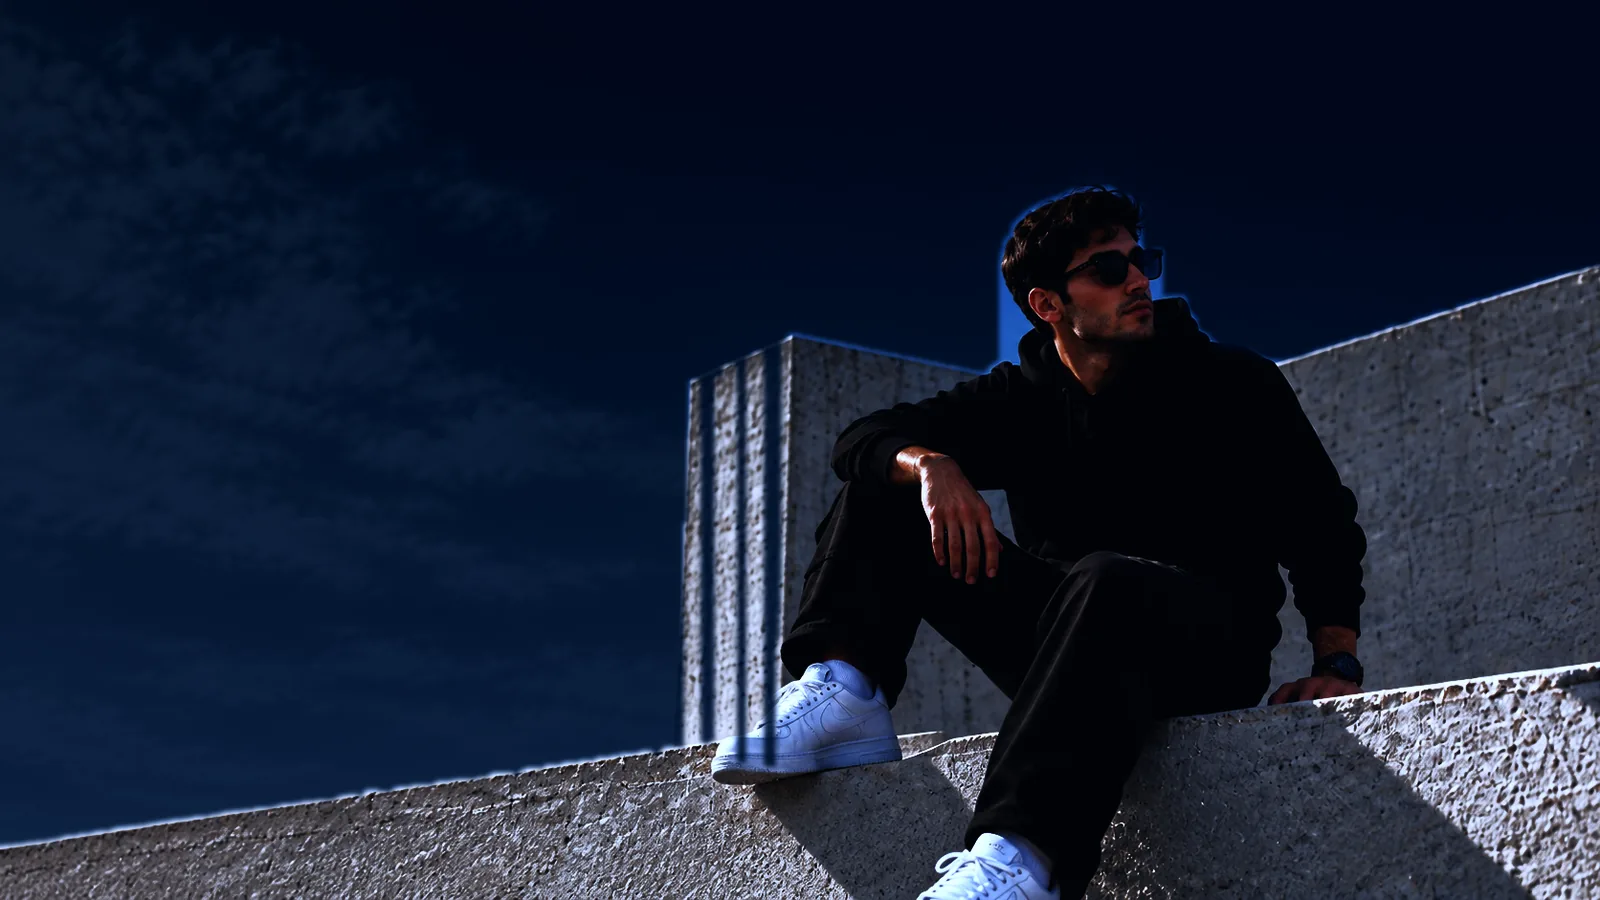
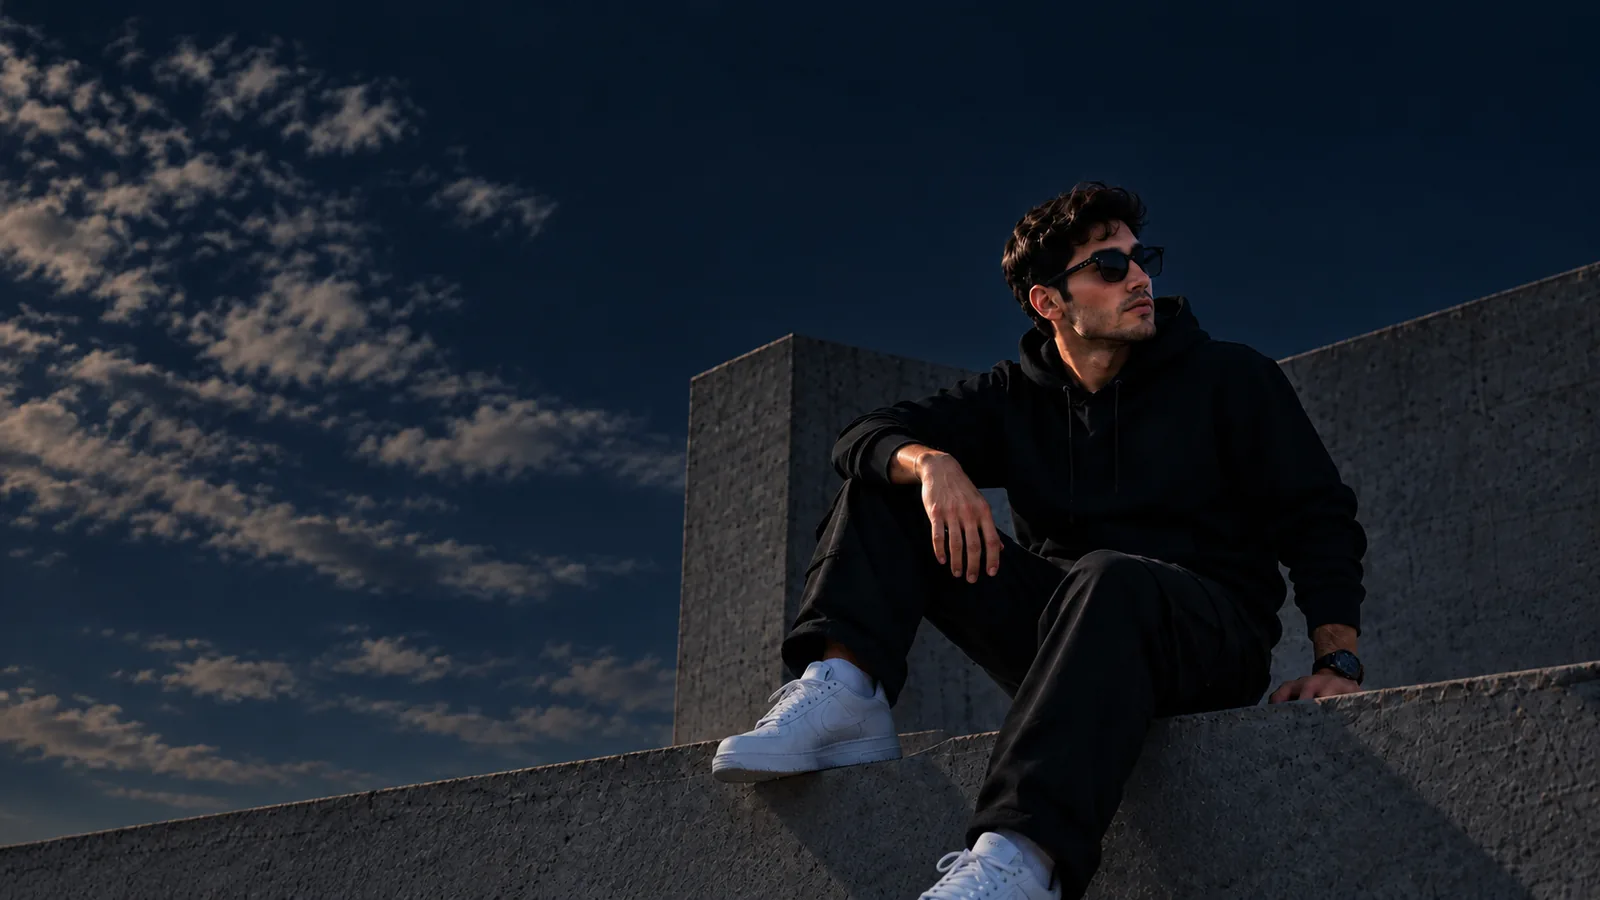
new

diff --git a/static/css/site.css b/static/css/site.css
@@ -199,6 +199,7 @@ html[dir="rtl"] .announce-track { animation-name: marquee-rtl; }
 }
 
 .nav { display: flex; align-items: center; gap: 2px; margin-inline: auto; }
+.logo { margin-inline-end: 8px; }
 .nav a {
   position: relative; padding: 9px 13px; border-radius: 8px;
   font-family: 'Jost', 'Cairo', sans-serif;
@@ -214,7 +215,7 @@ html[dir="rtl"] .announce-track { animation-name: marquee-rtl; }
 .nav a:hover, .nav a.is-active { color: var(--text); }
 .nav a:hover::after, .nav a.is-active::after { transform: scaleX(1); }
 
-.header-actions { display: flex; align-items: center; gap: 2px; flex: none; }
+.header-actions { display: flex; align-items: center; gap: 2px; flex: none; margin-inline-start: auto; }
 
 .cart-btn { position: relative; }
 .cart-count {
@@ -228,19 +229,19 @@ html[dir="rtl"] .announce-track { animation-name: marquee-rtl; }
 
 
 .burger { display: none; }
+.header-actions .burger { margin-inline-start: 2px; }
 
-/* search overlay */
-.search-bar {
-  border-top: 1px solid var(--line-soft);
-  max-height: 0; overflow: hidden; transition: max-height .32s var(--ease);
+/* search lives in the drawer */
+.drawer-search {
+  display: flex; align-items: center; gap: 10px;
+  padding: 11px 14px; margin-bottom: 14px;
+  border: 1px solid var(--line); border-radius: 100px; background: var(--surface-2);
 }
-.search-bar.is-open { max-height: 110px; }
-.search-bar form { display: flex; gap: 10px; padding: 16px 0; }
-.search-bar input {
-  flex: 1; padding: 12px 18px; border-radius: 100px;
-  background: var(--surface-2); border: 1px solid var(--line); color: var(--text);
+.drawer-search svg { width: 17px; height: 17px; flex: none; color: var(--muted); }
+.drawer-search input {
+  flex: 1; min-width: 0; border: 0; background: none; font-size: 14px; color: var(--text);
 }
-.search-bar input:focus { outline: none; border-color: var(--accent); }
+.drawer-search input:focus { outline: none; }
 
 /* mobile drawer */
 .drawer {
@@ -379,20 +380,6 @@ html[dir="rtl"] .drawer-panel { transform: translateX(102%); }
   box-shadow: 0 14px 42px color-mix(in srgb, var(--accent) 48%, transparent);
 }
 
-.hero-trust {
-  display: flex; align-items: center; flex-wrap: wrap;
-  gap: 0; margin-top: 44px;
-}
-.hero-trust li {
-  display: flex; align-items: center; gap: 10px;
-  padding-inline: 22px;
-  font-size: 13.5px; font-weight: 600; color: var(--text-2);
-  border-inline-start: 1px solid color-mix(in srgb, var(--text) 16%, transparent);
-}
-.hero-trust li:first-child { padding-inline-start: 0; border-inline-start: 0; }
-.hero-trust svg { width: 22px; height: 22px; flex: none; color: var(--ink); }
-:root[data-theme="dark"] .hero-trust svg { color: var(--accent); }
-
 .hero-script {
   position: absolute; z-index: 2;
   inset-inline-end: clamp(24px, 4vw, 70px);
@@ -412,23 +399,61 @@ html[dir="rtl"] .drawer-panel { transform: translateX(102%); }
 @media (max-width: 1180px) {
   .hero-script { display: none; }
 }
-@media (max-width: 820px) {
-  .hero-main { min-height: auto; padding-block: 0; }
-  .hero-media img { object-position: 62% top; }
+/* Narrower than the wide layout, `cover` would crop the sky away and push the
+   model under the copy. Locking the hero to the photo's own aspect ratio keeps
+   the whole frame on screen: clouds on the left for the copy, model on the right. */
+@media (max-width: 1024px) {
+  .hero-main {
+    min-height: 0;
+    aspect-ratio: 16 / 9;
+  }
+  .hero-media img { object-position: center; }
   .hero-media::after {
-    background: linear-gradient(180deg,
-      rgba(255,255,255,.97) 0%, rgba(255,255,255,.9) 42%, rgba(255,255,255,.62) 100%);
+    background: linear-gradient(90deg,
+      #FFFFFF 0%,
+      rgba(255,255,255,.90) 20%,
+      rgba(255,255,255,.60) 34%,
+      rgba(255,255,255,.12) 46%,
+      rgba(255,255,255,0) 56%);
   }
   :root[data-theme="dark"] .hero-media::after {
-    background: linear-gradient(180deg,
-      rgba(7,8,12,.96) 0%, rgba(7,8,12,.9) 42%, rgba(7,8,12,.66) 100%);
+    background: linear-gradient(90deg,
+      #07080C 0%,
+      rgba(7,8,12,.90) 20%,
+      rgba(7,8,12,.62) 34%,
+      rgba(7,8,12,.16) 46%,
+      rgba(7,8,12,0) 56%);
   }
-  .hero-wrap { padding-block: 54px 280px; }
-  .hero-copy { max-width: none; }
-  /* dividers can't survive wrapping without orphan borders — use gaps instead */
-  .hero-trust { margin-top: 28px; gap: 12px 22px; }
-  .hero-trust li { padding-inline: 0; border-inline-start: 0; font-size: 12.5px; }
-  .hero-trust svg { width: 19px; height: 19px; }
+  .hero-wrap { padding: 20px 18px; }
+  .hero-copy { max-width: 46%; }
+  .hero-eyebrow { font-size: clamp(9px, 1.5vw, 12px); letter-spacing: .3em; margin-bottom: 8px; }
+  .hero-title .line-1 { font-size: clamp(22px, 5.4vw, 46px); }
+  /* never cap this box: background-clip:text would clip the last letter's fill */
+  .hero-title .line-2 { font-size: clamp(24px, 5.7vw, 52px); max-width: none; }
+  .hero-sub { font-size: clamp(12px, 1.9vw, 16px); margin-bottom: clamp(12px, 2.4vw, 24px); }
+  .hero-cta { padding: clamp(9px, 1.6vw, 14px) clamp(16px, 2.8vw, 28px); font-size: clamp(11px, 1.6vw, 14px); }
+  .hero-cta svg { width: 15px; height: 15px; }
+}
+
+/* Phones: 16/9 would leave the hero too short to read, so go a bit taller and
+   pan the frame so the clouds and the whole model both stay in shot. */
+@media (max-width: 620px) {
+  .hero-main { aspect-ratio: 4 / 3; }
+  .hero-media img { object-position: 40% center; }
+  .hero-media::after {
+    background: linear-gradient(90deg, #FFFFFF 0%, rgba(255,255,255,.92) 26%,
+      rgba(255,255,255,.66) 42%, rgba(255,255,255,.16) 56%, rgba(255,255,255,0) 66%);
+  }
+  :root[data-theme="dark"] .hero-media::after {
+    background: linear-gradient(90deg, #07080C 0%, rgba(7,8,12,.92) 26%,
+      rgba(7,8,12,.68) 42%, rgba(7,8,12,.20) 56%, rgba(7,8,12,0) 66%);
+  }
+  .hero-copy { max-width: 54%; }
+  .hero-eyebrow { font-size: 9.5px; letter-spacing: .26em; }
+  .hero-title .line-1 { font-size: clamp(19px, 6.1vw, 28px); }
+  .hero-title .line-2 { font-size: clamp(21px, 6.6vw, 31px); }
+  .hero-sub { font-size: clamp(11px, 3.1vw, 14px); }
+  .hero-cta { padding: 10px 18px; font-size: 11.5px; letter-spacing: .1em; }
 }
 
 /* ---- banner slider (admin-managed) ---- */

diff --git a/templates/partials/header.html b/templates/partials/header.html
@@ -2,12 +2,6 @@
 <header class="header">
   <div class="wrap header-inner">
 
-    <button class="icon-btn burger" data-drawer-open aria-label="{% t 'menu' %}">
-      <svg viewBox="0 0 24 24" fill="none" stroke="currentColor" stroke-width="1.8" stroke-linecap="round">
-        <path d="M3 6h18M3 12h18M3 18h18"/>
-      </svg>
-    </button>
-
     <a class="logo" href="{% url 'home' %}">
       {% if SITE.logo %}
         <img src="{{ SITE.logo.url }}" alt="{{ SITE.brand_name }}">
@@ -29,6 +23,13 @@
     </nav>
 
     <div class="header-actions">
+      <a class="icon-btn cart-btn" href="{% url 'cart' %}" aria-label="{% t 'cart' %}">
+        <svg viewBox="0 0 24 24" fill="none" stroke="currentColor" stroke-width="1.7" stroke-linecap="round" stroke-linejoin="round">
+          <path d="M6 7h12l-1 12.2a2 2 0 01-2 1.8H9a2 2 0 01-2-1.8L6 7z"/><path d="M9.2 7V5.6a2.8 2.8 0 015.6 0V7"/>
+        </svg>
+        <span class="cart-count" {% if not CART_COUNT %}style="display:none"{% endif %}>{{ CART_COUNT }}</span>
+      </a>
+
       <button class="icon-btn" data-theme-toggle aria-label="{% t 'theme' %}">
         <svg class="ico-sun" viewBox="0 0 24 24" fill="none" stroke="currentColor" stroke-width="1.7" stroke-linecap="round">
           <circle cx="12" cy="12" r="4.2"/><path d="M12 2v2M12 20v2M4.9 4.9l1.4 1.4M17.7 17.7l1.4 1.4M2 12h2M20 12h2M4.9 19.1l1.4-1.4M17.7 6.3l1.4-1.4"/>
@@ -38,27 +39,11 @@
         </svg>
       </button>
 
-      <button class="icon-btn" data-search-toggle aria-label="{% t 'search' %}">
+      <button class="icon-btn burger" data-drawer-open aria-label="{% t 'menu' %}">
         <svg viewBox="0 0 24 24" fill="none" stroke="currentColor" stroke-width="1.8" stroke-linecap="round">
-          <circle cx="11" cy="11" r="7"/><path d="M20 20l-3.2-3.2"/>
+          <path d="M3 6h18M3 12h18M3 18h18"/>
         </svg>
       </button>
-
-      <a class="icon-btn cart-btn" href="{% url 'cart' %}" aria-label="{% t 'cart' %}">
-        <svg viewBox="0 0 24 24" fill="none" stroke="currentColor" stroke-width="1.7" stroke-linecap="round" stroke-linejoin="round">
-          <path d="M6 7h12l-1 12.2a2 2 0 01-2 1.8H9a2 2 0 01-2-1.8L6 7z"/><path d="M9.2 7V5.6a2.8 2.8 0 015.6 0V7"/>
-        </svg>
-        <span class="cart-count" {% if not CART_COUNT %}style="display:none"{% endif %}>{{ CART_COUNT }}</span>
-      </a>
-    </div>
-  </div>
-
-  <div class="search-bar">
-    <div class="wrap">
-      <form action="{% url 'shop' %}" method="get">
-        <input type="search" name="q" value="{{ request.GET.q|default:'' }}" placeholder="{% t 'search_placeholder' %}" autocomplete="off">
-        <button class="btn" type="submit">{% t 'search' %}</button>
-      </form>
     </div>
   </div>
 </header>
@@ -72,11 +57,19 @@
         <svg viewBox="0 0 24 24" fill="none" stroke="currentColor" stroke-width="1.8" stroke-linecap="round"><path d="M6 6l12 12M18 6L6 18"/></svg>
       </button>
     </div>
+
+    <form class="drawer-search" action="{% url 'shop' %}" method="get">
+      <svg viewBox="0 0 24 24" fill="none" stroke="currentColor" stroke-width="1.8" stroke-linecap="round">
+        <circle cx="11" cy="11" r="7"/><path d="M20 20l-3.2-3.2"/>
+      </svg>
+      <input type="search" name="q" value="{{ request.GET.q|default:'' }}" placeholder="{% t 'search_placeholder' %}" autocomplete="off">
+    </form>
+
     <nav>
       <a href="{% url 'home' %}">{% t 'home' %}</a>
       <a href="{% url 'shop' %}">{% t 'shop' %}</a>
       {% for cat in NAV_CATEGORIES %}
-        <a class="nav-cat" href="{% url 'category_detail' cat.slug %}">{{ cat.name }}</a>
+        <a href="{% url 'category_detail' cat.slug %}">{{ cat.name }}</a>
       {% endfor %}
       <a href="{% url 'shop' %}?sale=1">{% t 'sale' %}</a>
       <a href="{% url 'track_order' %}">{% t 'track_order' %}</a>

diff --git a/templates/pages/home.html b/templates/pages/home.html
@@ -7,7 +7,7 @@
 <section class="hero-main">
   <div class="hero-media">
     <img class="for-light" src="{% static 'img/hero-light.webp' %}" alt="" fetchpriority="high">
-    <img class="for-dark" src="{% static 'img/hero - darkk.png' %}" alt="" fetchpriority="high">
+    <img class="for-dark" src="{% static 'img/hero-dark.webp' %}" alt="" fetchpriority="high">
   </div>
 
   <div class="hero-wrap">
@@ -26,46 +26,10 @@
         <svg viewBox="0 0 24 24" fill="none" stroke="currentColor" stroke-width="2" stroke-linecap="round" stroke-linejoin="round"><path d="M4 12h15M13 5.5l6.5 6.5-6.5 6.5"/></svg>
       </a>
 
-      <ul class="hero-trust">
-        <li>
-          <svg viewBox="0 0 24 24" fill="none" stroke="currentColor" stroke-width="1.6" stroke-linecap="round" stroke-linejoin="round"><path d="M2.5 6.5h11v9h-11z"/><path d="M13.5 9.5h4l3.5 3.5v2.5h-7.5z"/><circle cx="6.5" cy="17.5" r="2"/><circle cx="17" cy="17.5" r="2"/></svg>
-          {% t 'trust_delivery' %}
-        </li>
-        <li>
-          <svg viewBox="0 0 24 24" fill="none" stroke="currentColor" stroke-width="1.6" stroke-linecap="round" stroke-linejoin="round"><path d="M12 2.8l7.5 3v6c0 4.4-3.1 8.4-7.5 9.4-4.4-1-7.5-5-7.5-9.4v-6z"/><path d="M8.8 11.8l2.2 2.2 4.2-4.4"/></svg>
-          {% t 'trust_payment' %}
-        </li>
-        <li>
-          <svg viewBox="0 0 24 24" fill="none" stroke="currentColor" stroke-width="1.6" stroke-linecap="round" stroke-linejoin="round"><circle cx="12" cy="9" r="6"/><path d="M12 6.2l.9 1.9 2 .3-1.5 1.4.4 2-1.8-1-1.8 1 .4-2L9.1 8.4l2-.3z"/><path d="M8.6 14.4L7 22l5-2.6L17 22l-1.6-7.6"/></svg>
-          {% t 'trust_quality' %}
-        </li>
-      </ul>
     </div>
   </div>
 
   <span class="hero-script">Better<br>Clothes<br>Bigger<br>Dreams</span>
-</section>
-
-{# ------------------------------------------------------------------- usp #}
-<section class="usp">
-  <div class="wrap usp-grid">
-    <div class="usp-item">
-      <div class="usp-icon"><svg viewBox="0 0 24 24" fill="none" stroke="currentColor" stroke-width="1.7"><path d="M3 7h11v9H3zM14 10h4l3 3v3h-7z"/><circle cx="7" cy="18" r="1.8"/><circle cx="17.5" cy="18" r="1.8"/></svg></div>
-      <div><h4>{% t 'feature_delivery' %}</h4><p>{% t 'feature_delivery_sub' %}</p></div>
-    </div>
-    <div class="usp-item">
-      <div class="usp-icon"><svg viewBox="0 0 24 24" fill="none" stroke="currentColor" stroke-width="1.7"><rect x="2.5" y="5.5" width="19" height="13" rx="2.5"/><path d="M2.5 10h19"/></svg></div>
-      <div><h4>{% t 'feature_cod' %}</h4><p>{% t 'feature_cod_sub' %}</p></div>
-    </div>
-    <div class="usp-item">
-      <div class="usp-icon"><svg viewBox="0 0 24 24" fill="none" stroke="currentColor" stroke-width="1.7"><path d="M12 3l7 3v5.5c0 4.2-2.9 7.9-7 9-4.1-1.1-7-4.8-7-9V6z"/><path d="M9.2 12l2 2 3.6-3.8"/></svg></div>
-      <div><h4>{% t 'feature_quality' %}</h4><p>{% t 'feature_quality_sub' %}</p></div>
-    </div>
-    <div class="usp-item">
-      <div class="usp-icon"><svg viewBox="0 0 24 24" fill="none" stroke="currentColor" stroke-width="1.7"><path d="M21 12a9 9 0 10-3.4 7"/><path d="M12 7v5l3 2"/></svg></div>
-      <div><h4>{% t 'feature_support' %}</h4><p>{% t 'feature_support_sub' %}</p></div>
-    </div>
-  </div>
 </section>
 
 {# --------------------------------------------------- banners (dashboard) #}

diff --git a/templates/pages/about.html b/templates/pages/about.html
@@ -13,22 +13,7 @@
 <section class="section-sm">
   <div class="wrap" style="max-width:820px">
     <div class="form-card">
-      <p style="white-space:pre-line;font-size:15px;color:var(--text-2)">{{ SITE.about|default:SITE.tagline }}</p>
-    </div>
-
-    <div class="usp-grid" style="margin-top:26px">
-      <div class="usp-item">
-        <div class="usp-icon"><svg viewBox="0 0 24 24" fill="none" stroke="currentColor" stroke-width="1.7"><path d="M3 7h11v9H3zM14 10h4l3 3v3h-7z"/><circle cx="7" cy="18" r="1.8"/><circle cx="17.5" cy="18" r="1.8"/></svg></div>
-        <div><h4>{% t 'feature_delivery' %}</h4><p>{% t 'feature_delivery_sub' %}</p></div>
-      </div>
-      <div class="usp-item">
-        <div class="usp-icon"><svg viewBox="0 0 24 24" fill="none" stroke="currentColor" stroke-width="1.7"><rect x="2.5" y="5.5" width="19" height="13" rx="2.5"/><path d="M2.5 10h19"/></svg></div>
-        <div><h4>{% t 'feature_cod' %}</h4><p>{% t 'feature_cod_sub' %}</p></div>
-      </div>
-      <div class="usp-item">
-        <div class="usp-icon"><svg viewBox="0 0 24 24" fill="none" stroke="currentColor" stroke-width="1.7"><path d="M12 3l7 3v5.5c0 4.2-2.9 7.9-7 9-4.1-1.1-7-4.8-7-9V6z"/><path d="M9.2 12l2 2 3.6-3.8"/></svg></div>
-        <div><h4>{% t 'feature_quality' %}</h4><p>{% t 'feature_quality_sub' %}</p></div>
-      </div>
+      <p style="white-space:pre-line;font-size:15px;color:var(--text-2);margin:0">{{ SITE.about|default:SITE.tagline }}</p>
     </div>
   </div>
 </section>

diff --git a/templates/pages/product_detail.html b/templates/pages/product_detail.html
@@ -130,9 +130,9 @@
               <span class="chev"><svg viewBox="0 0 24 24" fill="none" stroke="currentColor" stroke-width="2" width="16" height="16"><path d="M6 9l6 6 6-6"/></svg></span>
             </button>
             <div class="acc-body"><div class="inner">
-              {% t 'feature_delivery_sub' %} · {% t 'cod_note' %}
+              {% t 'cod_note' %}
               {% if SITE.free_shipping_threshold %}
-                <br>{% t 'free' %}: {{ SITE.free_shipping_threshold|money }} {{ CURRENCY }}+
+                <br>{% t 'free_shipping_earned' %}: {{ SITE.free_shipping_threshold|money }} {{ CURRENCY }}+
               {% endif %}
             </div></div>
           </div>

diff --git a/static/js/site.js b/static/js/site.js
@@ -77,13 +77,6 @@
       drawer && drawer.classList.remove('is-open');
       document.body.style.overflow = '';
     }
-    if (event.target.closest('[data-search-toggle]')) {
-      const bar = $('.search-bar');
-      if (bar) {
-        bar.classList.toggle('is-open');
-        if (bar.classList.contains('is-open')) setTimeout(() => { const i = $('input', bar); i && i.focus(); }, 220);
-      }
-    }
     if (event.target.closest('[data-filters-toggle]')) {
       const panel = $('.filters');
       panel && panel.classList.toggle('is-open');
